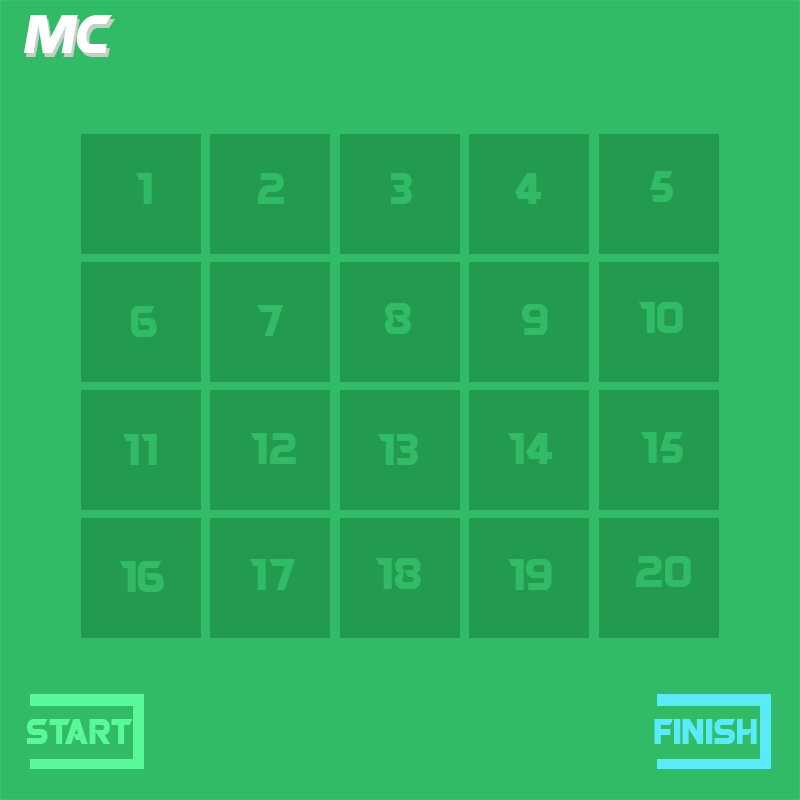
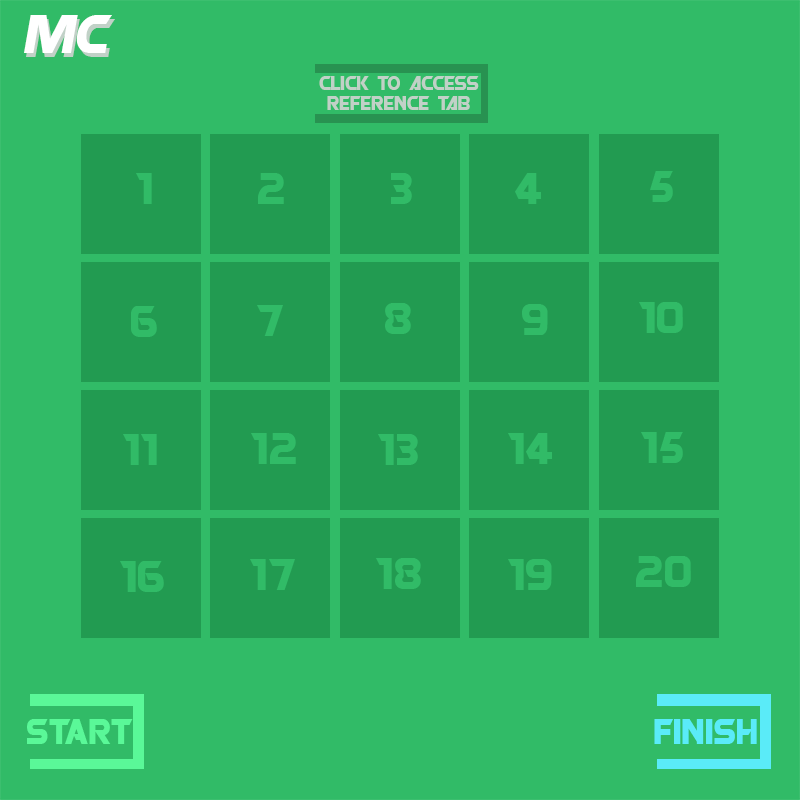
Reference menu with price, plus button to click and show reference menu when needed

Changed region(s): [[0.375, 0.0625, 0.625, 0.1562]]

diff --git a/src/main/CashMachine.java b/src/main/CashMachine.java
@@ -30,7 +30,7 @@ public class CashMachine {
 	
 	
 	private static Button editConfirmButton, startScreenOpenButton, startScreenEditButton, startReturnToStartButton, startFinishButton, setupNextButton, setupNextButtonLow,
-	  startExitButton, startCustomerNameBounds, startCustomerNumberBounds, editProductNameBounds, editProductPriceBounds;
+	  startExitButton, startCustomerNameBounds, startCustomerNumberBounds, editProductNameBounds, editProductPriceBounds, openReferenceScreen;
 
 	private static final String UNDEFINED_BUTTON_NAME = "*****UNDEFINED*****";
 
@@ -77,6 +77,8 @@ public class CashMachine {
 		CashMachine.setupNextButton = new Button("Next", 268, 401, 250, 100); // need to update cordinates
 		CashMachine.setupNextButtonLow = new Button("Next (Low)", 268, 401, 250, 100); // need to update cordinates
 		
+		CashMachine.openReferenceScreen = new Button("Reference Screen", 315, 64, 174, 58); // ref box
+		
 		Scanner sc = new Scanner(this.settings);
 		Scanner sc2 = new Scanner(this.productButtonSettings);
 	
@@ -113,10 +115,8 @@ public class CashMachine {
 		this.ref.setSize(400, 822);
 		this.ref.setResizable(false);
 		this.ref.setLocationRelativeTo(null);
-		// set GamePanel as the content pane
+		// set refPanel as the content pane
 		this.ref.setContentPane(refPanel);
-		// make the window visible to the user
-		this.ref.setVisible(true);
 		
 
 	}
@@ -249,20 +249,24 @@ public class CashMachine {
 		refPanel.repaint();
 		switch(this.state) {
 		case SetupNAME:
-			
+	
 			break;
 		case StartORDER:
+		
 			break;
 		case StartSCREEN:
+	
 			break;
 		case ORDER:
 			
 			break;
 		case OrderSUMMARY:
+			
 			this.customer.write(transaction.getTransactionNum());
 			this.transaction.write();
 			break;
 		case EditSELECT:
+			
 			break;
 		case EditBUTTON:
 			
@@ -329,6 +333,9 @@ public class CashMachine {
 			else if (CashMachine.startReturnToStartButton.clicked(e.getX(), e.getY())) {
 				this.state = State.StartORDER;
 			}
+			else if(CashMachine.openReferenceScreen.clicked(e.getX(), e.getY())){
+				this.ref.setVisible(true);
+			}
 			else{
 				for(int i = 0; i < this.productButtons.size(); i++){
 					if (this.productButtons.get(i).clicked(e.getX(), e.getY()) && !this.productButtons.get(i).getName().equals(UNDEFINED_BUTTON_NAME)) {
@@ -351,6 +358,9 @@ public class CashMachine {
 		case EditSELECT:
 			if (CashMachine.startExitButton.clicked(e.getX(), e.getY())){
 				this.state = State.StartSCREEN;
+			}
+			else if(CashMachine.openReferenceScreen.clicked(e.getX(), e.getY())){
+				this.ref.setVisible(true);
 			}
 			else{
 				for(int i = 0; i < this.productButtons.size(); i++){

diff --git a/src/main/ReferenceBox.java b/src/main/ReferenceBox.java
@@ -46,13 +46,23 @@ public class ReferenceBox extends JPanel {
 		g.setFont(ReferenceBox.RefFont.deriveFont(12f));
 		
 		try {
-			for(int i= 0, y = 56 ; i < 20; i++, y+= 40){
+			for(int i= 0, y = 56 ; i < 20; i++, y+= 39){
 				if (!tempProductInfo.get(i).getName().equals(ReferenceBox.UNDEFINED_BUTTON_NAME)) {
-					g.drawString(tempProductInfo.get(i).getName(), 37, y);
+					g.drawString(tempProductInfo.get(i).getName(), 40, y);
 				}
 				else {
-					g.drawString("", 37, y);
-				}	
+					g.drawString("", 40, y);
+				}
+				
+				g.drawString("    $ ", 200, y);
+				
+				Double drawDouble = new Double(tempProductInfo.get(i).getPrice());
+				if (!drawDouble.toString().equals(ReferenceBox.UNDEFINED_BUTTON_NAME)) {
+					g.drawString(drawDouble.toString(), 250, y);
+				}
+				else {
+					g.drawString("", 250, y);
+				}
 			}
 		}
 		catch(NullPointerException e) {
